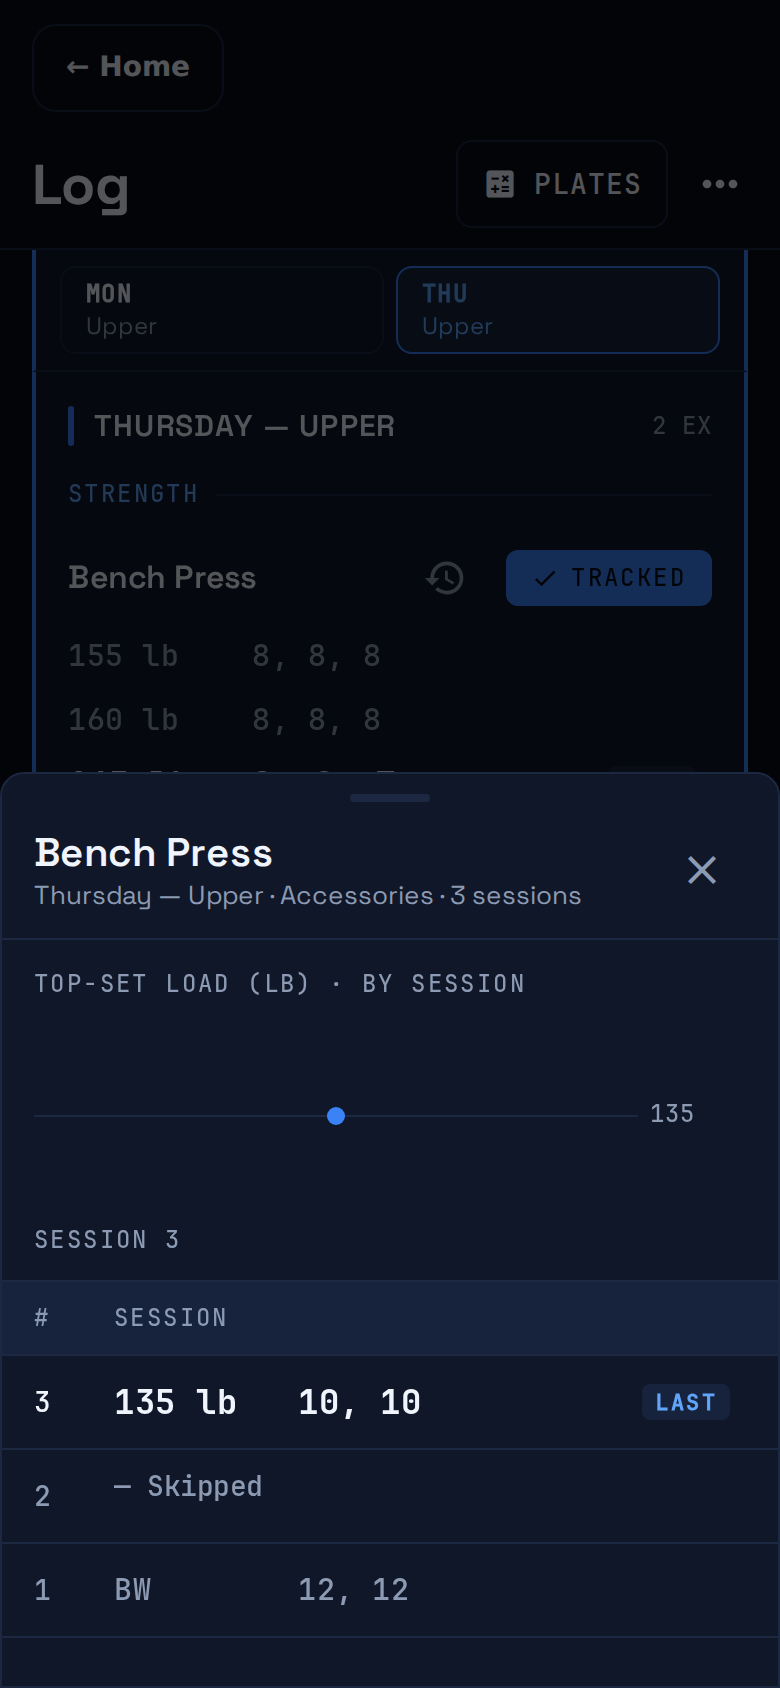
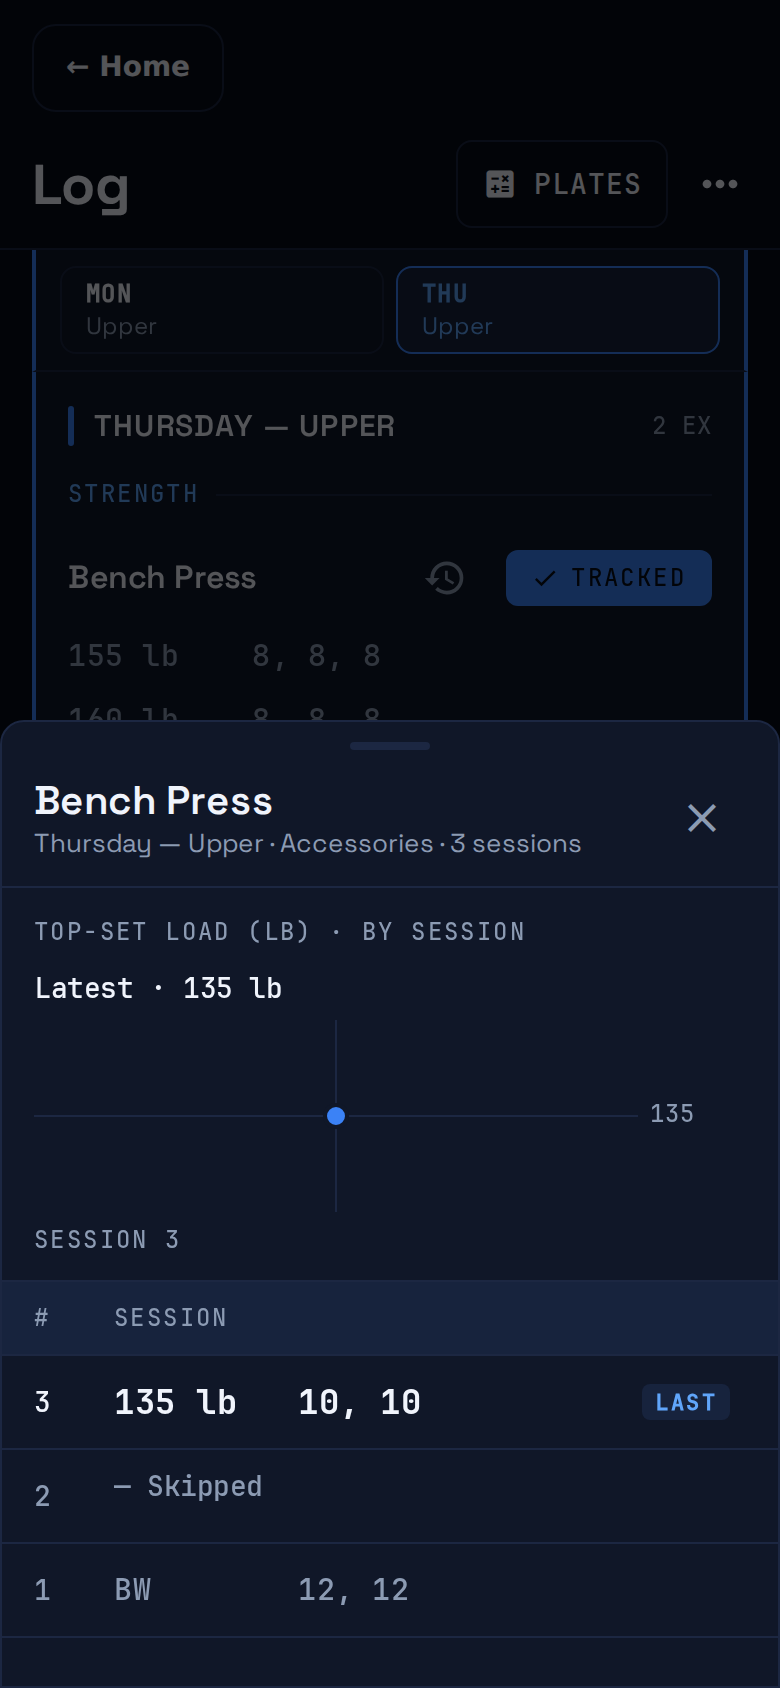
R8 evidence: rerender history states with point selection (#1607)

Changed region(s): [[0.0, 0.4005, 1.0, 0.6161]]

diff --git a/docs/evidence/app-redesign-v3/r8/README.md b/docs/evidence/app-redesign-v3/r8/README.md
@@ -1,6 +1,6 @@
 # R8 (#1607) visual evidence — Log history sheet and rest-timer surfaces
 
-- **Rendered commit:** `795f739a6d5e20da854a19965ace2a84bd60535f` (real app Expo web export, not prototype HTML).
+- **Rendered commits:** `history-*` and `log-first-*` at `eaa4bf492bd954963af27563e6b4c02e3c84eb21` (chart point selection); timer/pill states at `795f739a6d5e20da854a19965ace2a84bd60535f` — the later commits touch only `ExerciseHistorySheet.js` (selection, scrim token that was never rendered), which is not mounted on any timer screen. Real app Expo web export, not prototype HTML.
 - **Viewport:** 390×844 @2x via the shared harness (`../capture.cjs`, read-only); issue-local overlays in `fixtures.cjs`.
 - **Themes:** every state in hard-dark and clay-light; Log first screen and Home pill (first affected screens) also in grass-light and clay-dark.
 - **References:** `docs/design/app-redesign-v3/shots/hybrid/` state-log-history-sheet, state-log-editor, state-log-editor-timer, state-home-timer-running (hard-dark).
@@ -9,7 +9,7 @@
 
 1. History icon: 44dp labelled button between the exercise name and Tracked; Tracked/earlier/LAST rows unchanged.
 2. Sheet: bottom sheet with handle; 20/26 title + "day · block · N sessions" subtitle (no dates); 44dp close at right.
-3. Chart: "TOP-SET LOAD (UNIT) · BY SESSION" kicker; line with min/max gridlines and right-hand labels; "SESSION 1 … LATEST" axis; latest point larger.
+3. Chart: a callout ("Latest · 225 lb" / "Session N · X lb") above the line; each point a labelled 44dp target that selects it (marker enlarged + vertical guide); "TOP-SET LOAD (UNIT) · BY SESSION" kicker; line with min/max gridlines and right-hand labels; "SESSION 1 … LATEST" axis; latest point larger.
 4. Table: tinted "# / SESSION" header; rows newest-first, 44dp min, index centred on the set line, latest logged row bold with LAST, older muted.
 5. Timer panel: big countdown + "of m:ss rest", progress track, five equal 0:30–3:00 presets (running length selected), Cancel timer + Dismiss side by side; done = Rest over + Dismiss.
 6. Pill: centred, primary 1.5px outline, timer icon, 18px tabular countdown, uppercase action; sits above the tab bar.
@@ -24,12 +24,13 @@ cd mobile && EXPO_PUBLIC_SUPABASE_URL=https://mockproj.supabase.co EXPO_PUBLIC_S
 cd .. && KILO_RENDERED_COMMIT=795f739a6d5e20da854a19965ace2a84bd60535f   node docs/evidence/app-redesign-v3/r8/capture.cjs /tmp/kilo-1607-dist-795f /tmp/kilo-review-tools/node_modules
 ```
 
-The run captured all 46 states without a step failure (manifest written to the work dir). Later commits on this branch change only docs/evidence/changelog, so the renders still apply.
+The runs (full matrix at 795f739; `history,log-first` rerun at eaa4bf4 with the same command, `only` = `history,log-first`) captured all 48 states without a step failure (manifest written to the work dir). Later commits on this branch change only docs/evidence/changelog, so the renders still apply.
 
 ## Degradation and preserved capabilities
 
 - BW-only / timed-only exercises: chart replaced by a text fallback; sessions still listed (`history-bw-only`, `history-timed`).
 - Unparsed and skipped rows stay verbatim in the list and are never charted (`history-unparsed`, `history-repeated-accessories`).
+- Selection: latest point selected by default (`history-sheet`); tapping session 1 moves the callout and marker (`history-point-earlier`).
 - Repeated names: Monday, Thursday-Strength and Thursday-Accessories Bench Press each open only their own sessions with distinct context (`history-sheet`, `history-repeated-*`); A/B routine names the week (`history-ab-week`).
 - Timer: idle/presets/running/cancelled/done in the editor; scrolled-off editor hands the countdown to the pill (`editor-scrolled-pill`); running pill on Home, Log read view, Weight, Analytics, More; completion pill with Dismiss; inset-device panel (`editor-safe-area`). The web build has no software keyboard; keyboard placement is unchanged code (pill clearance logic untouched).
 - Background alert unavailable flag remains on the control, panel and pill.
@@ -56,6 +57,8 @@ The run captured all 46 states without a step failure (manifest written to the w
 | [history-ab-week-hard-dark](after/history-ab-week-hard-dark.png) | [state-log-history-sheet-hard-dark.png](../../../design/app-redesign-v3/shots/hybrid/state-log-history-sheet-hard-dark.png) | Pass |
 | [history-bw-only-clay-light](after/history-bw-only-clay-light.png) | [state-log-history-sheet-hard-dark.png](../../../design/app-redesign-v3/shots/hybrid/state-log-history-sheet-hard-dark.png) | Pass |
 | [history-bw-only-hard-dark](after/history-bw-only-hard-dark.png) | [state-log-history-sheet-hard-dark.png](../../../design/app-redesign-v3/shots/hybrid/state-log-history-sheet-hard-dark.png) | Pass |
+| [history-point-earlier-clay-light](after/history-point-earlier-clay-light.png) | [state-log-history-sheet-hard-dark.png](../../../design/app-redesign-v3/shots/hybrid/state-log-history-sheet-hard-dark.png) | Pass |
+| [history-point-earlier-hard-dark](after/history-point-earlier-hard-dark.png) | [state-log-history-sheet-hard-dark.png](../../../design/app-redesign-v3/shots/hybrid/state-log-history-sheet-hard-dark.png) | Pass |
 | [history-repeated-accessories-clay-light](after/history-repeated-accessories-clay-light.png) | [state-log-history-sheet-hard-dark.png](../../../design/app-redesign-v3/shots/hybrid/state-log-history-sheet-hard-dark.png) | Pass |
 | [history-repeated-accessories-hard-dark](after/history-repeated-accessories-hard-dark.png) | [state-log-history-sheet-hard-dark.png](../../../design/app-redesign-v3/shots/hybrid/state-log-history-sheet-hard-dark.png) | Pass |
 | [history-repeated-thursday-clay-light](after/history-repeated-thursday-clay-light.png) | [state-log-history-sheet-hard-dark.png](../../../design/app-redesign-v3/shots/hybrid/state-log-history-sheet-hard-dark.png) | Pass |
